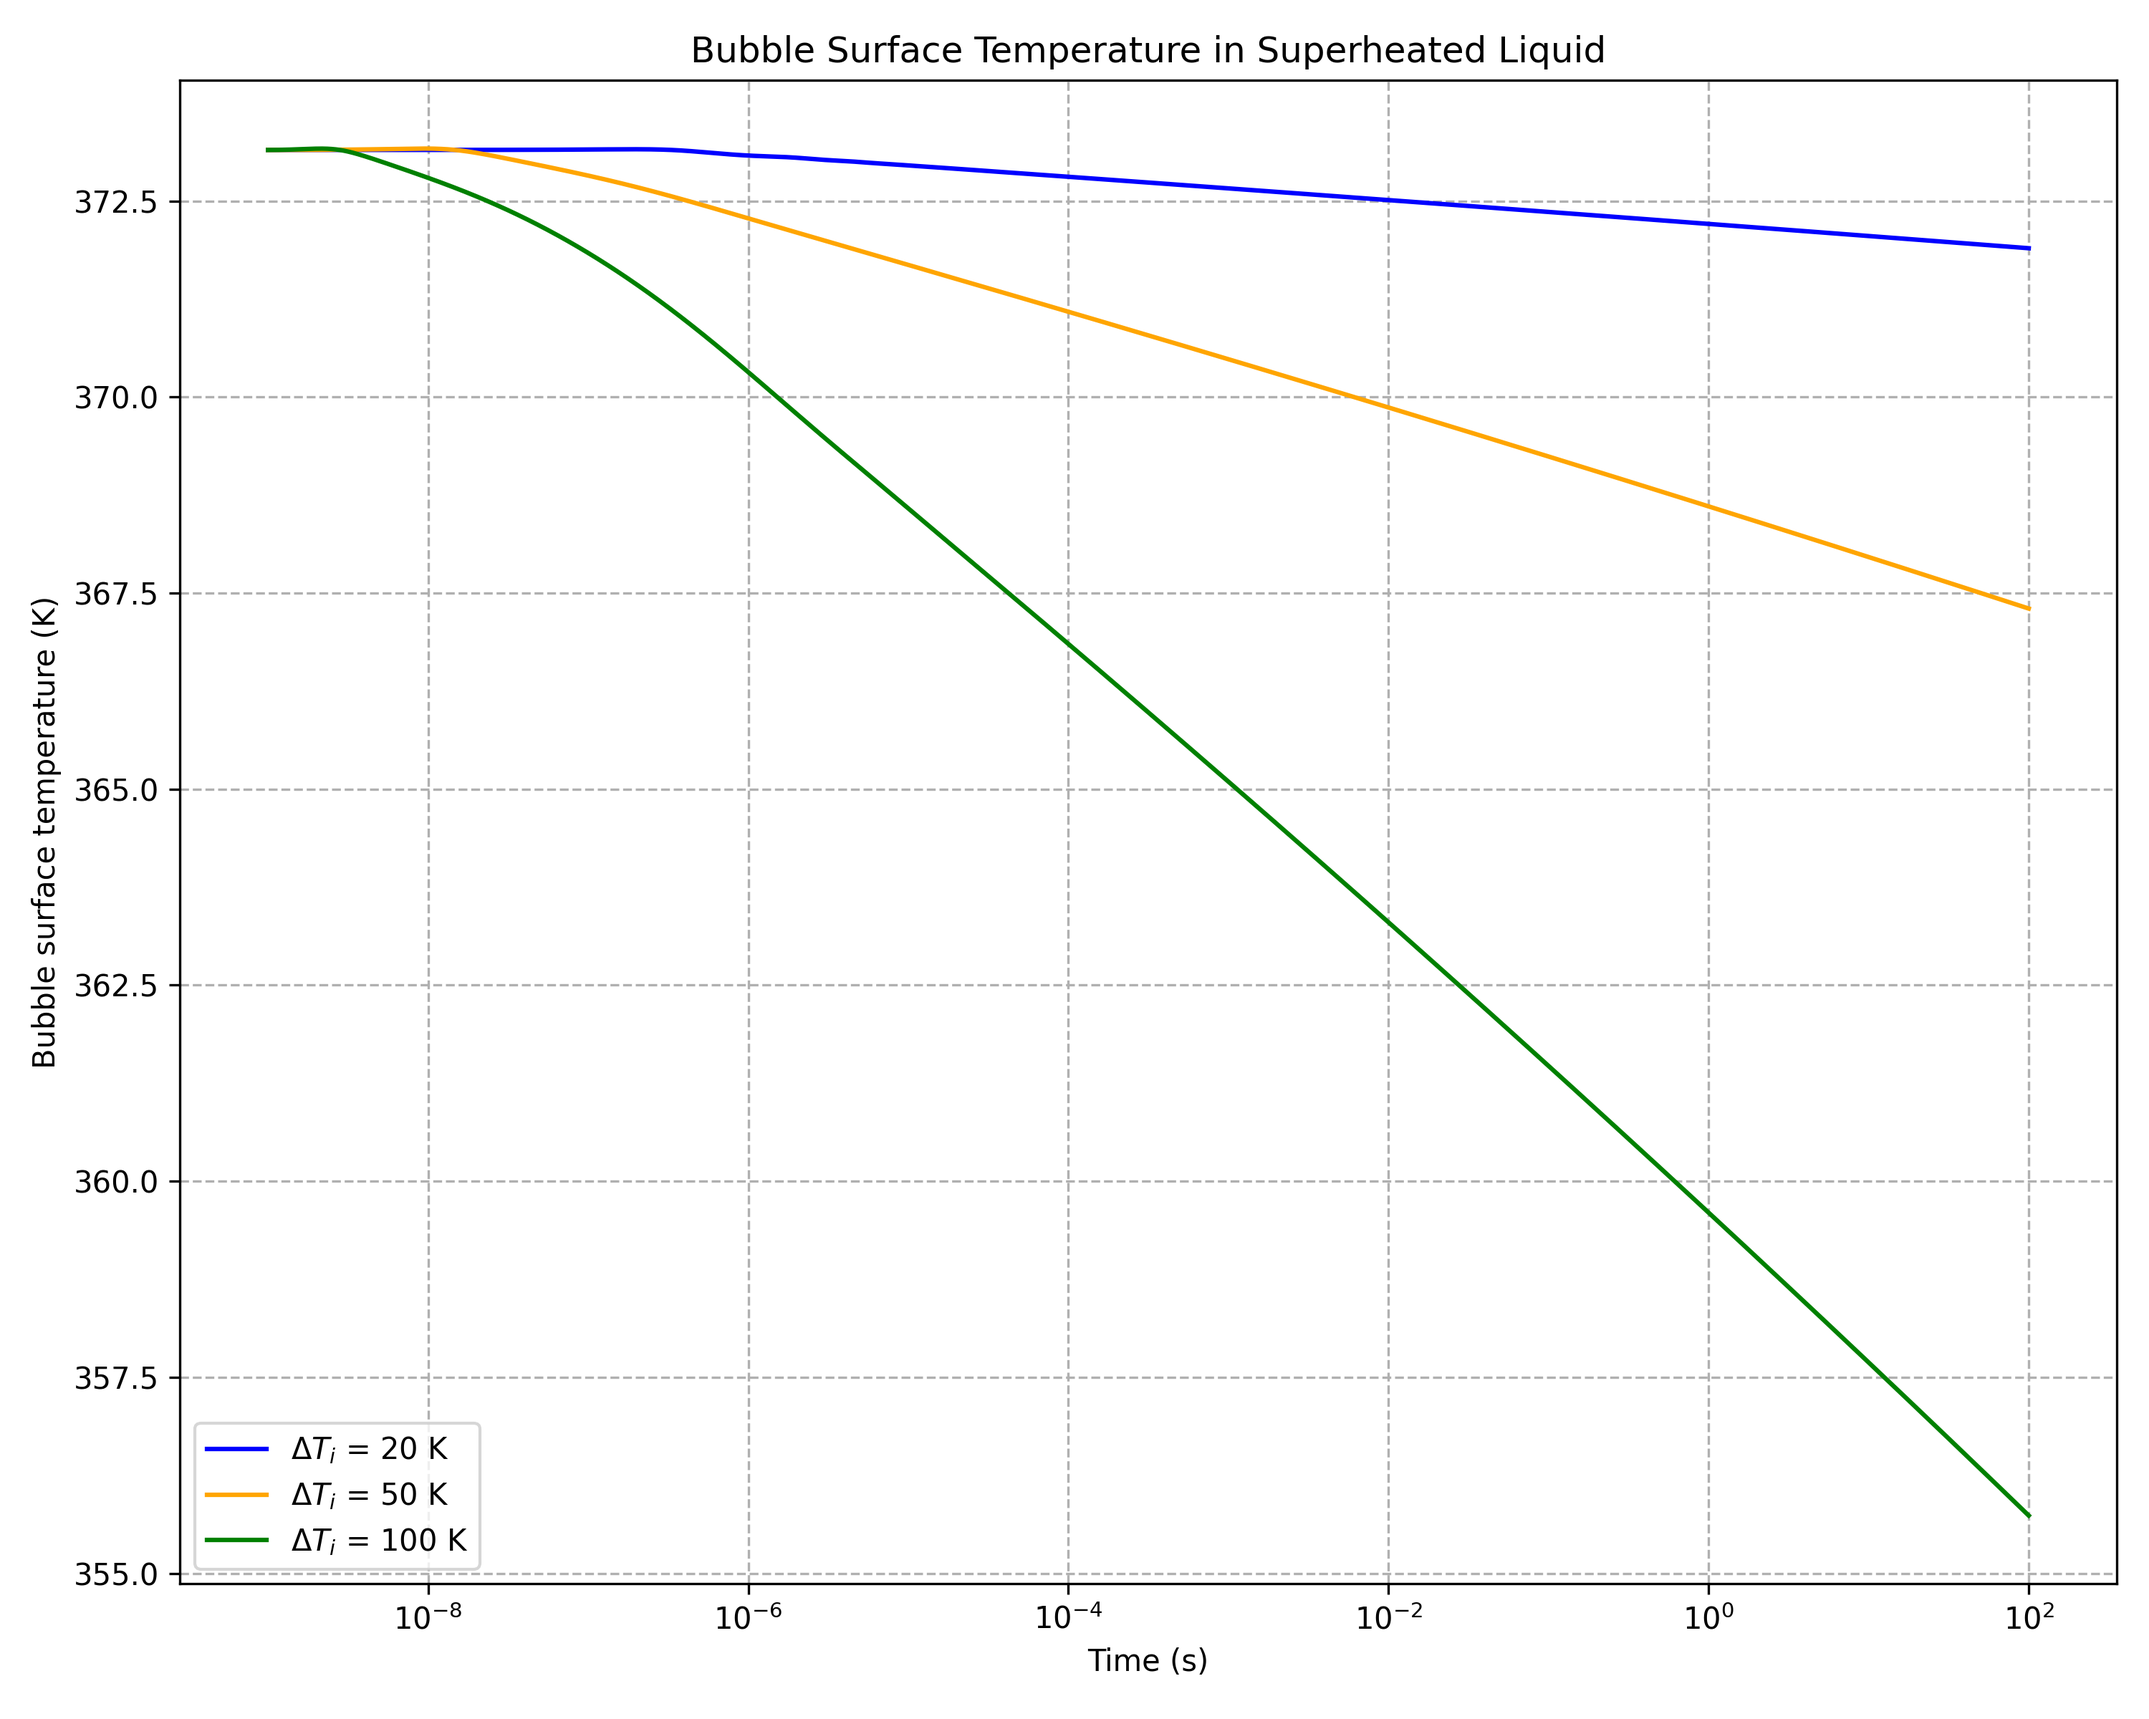
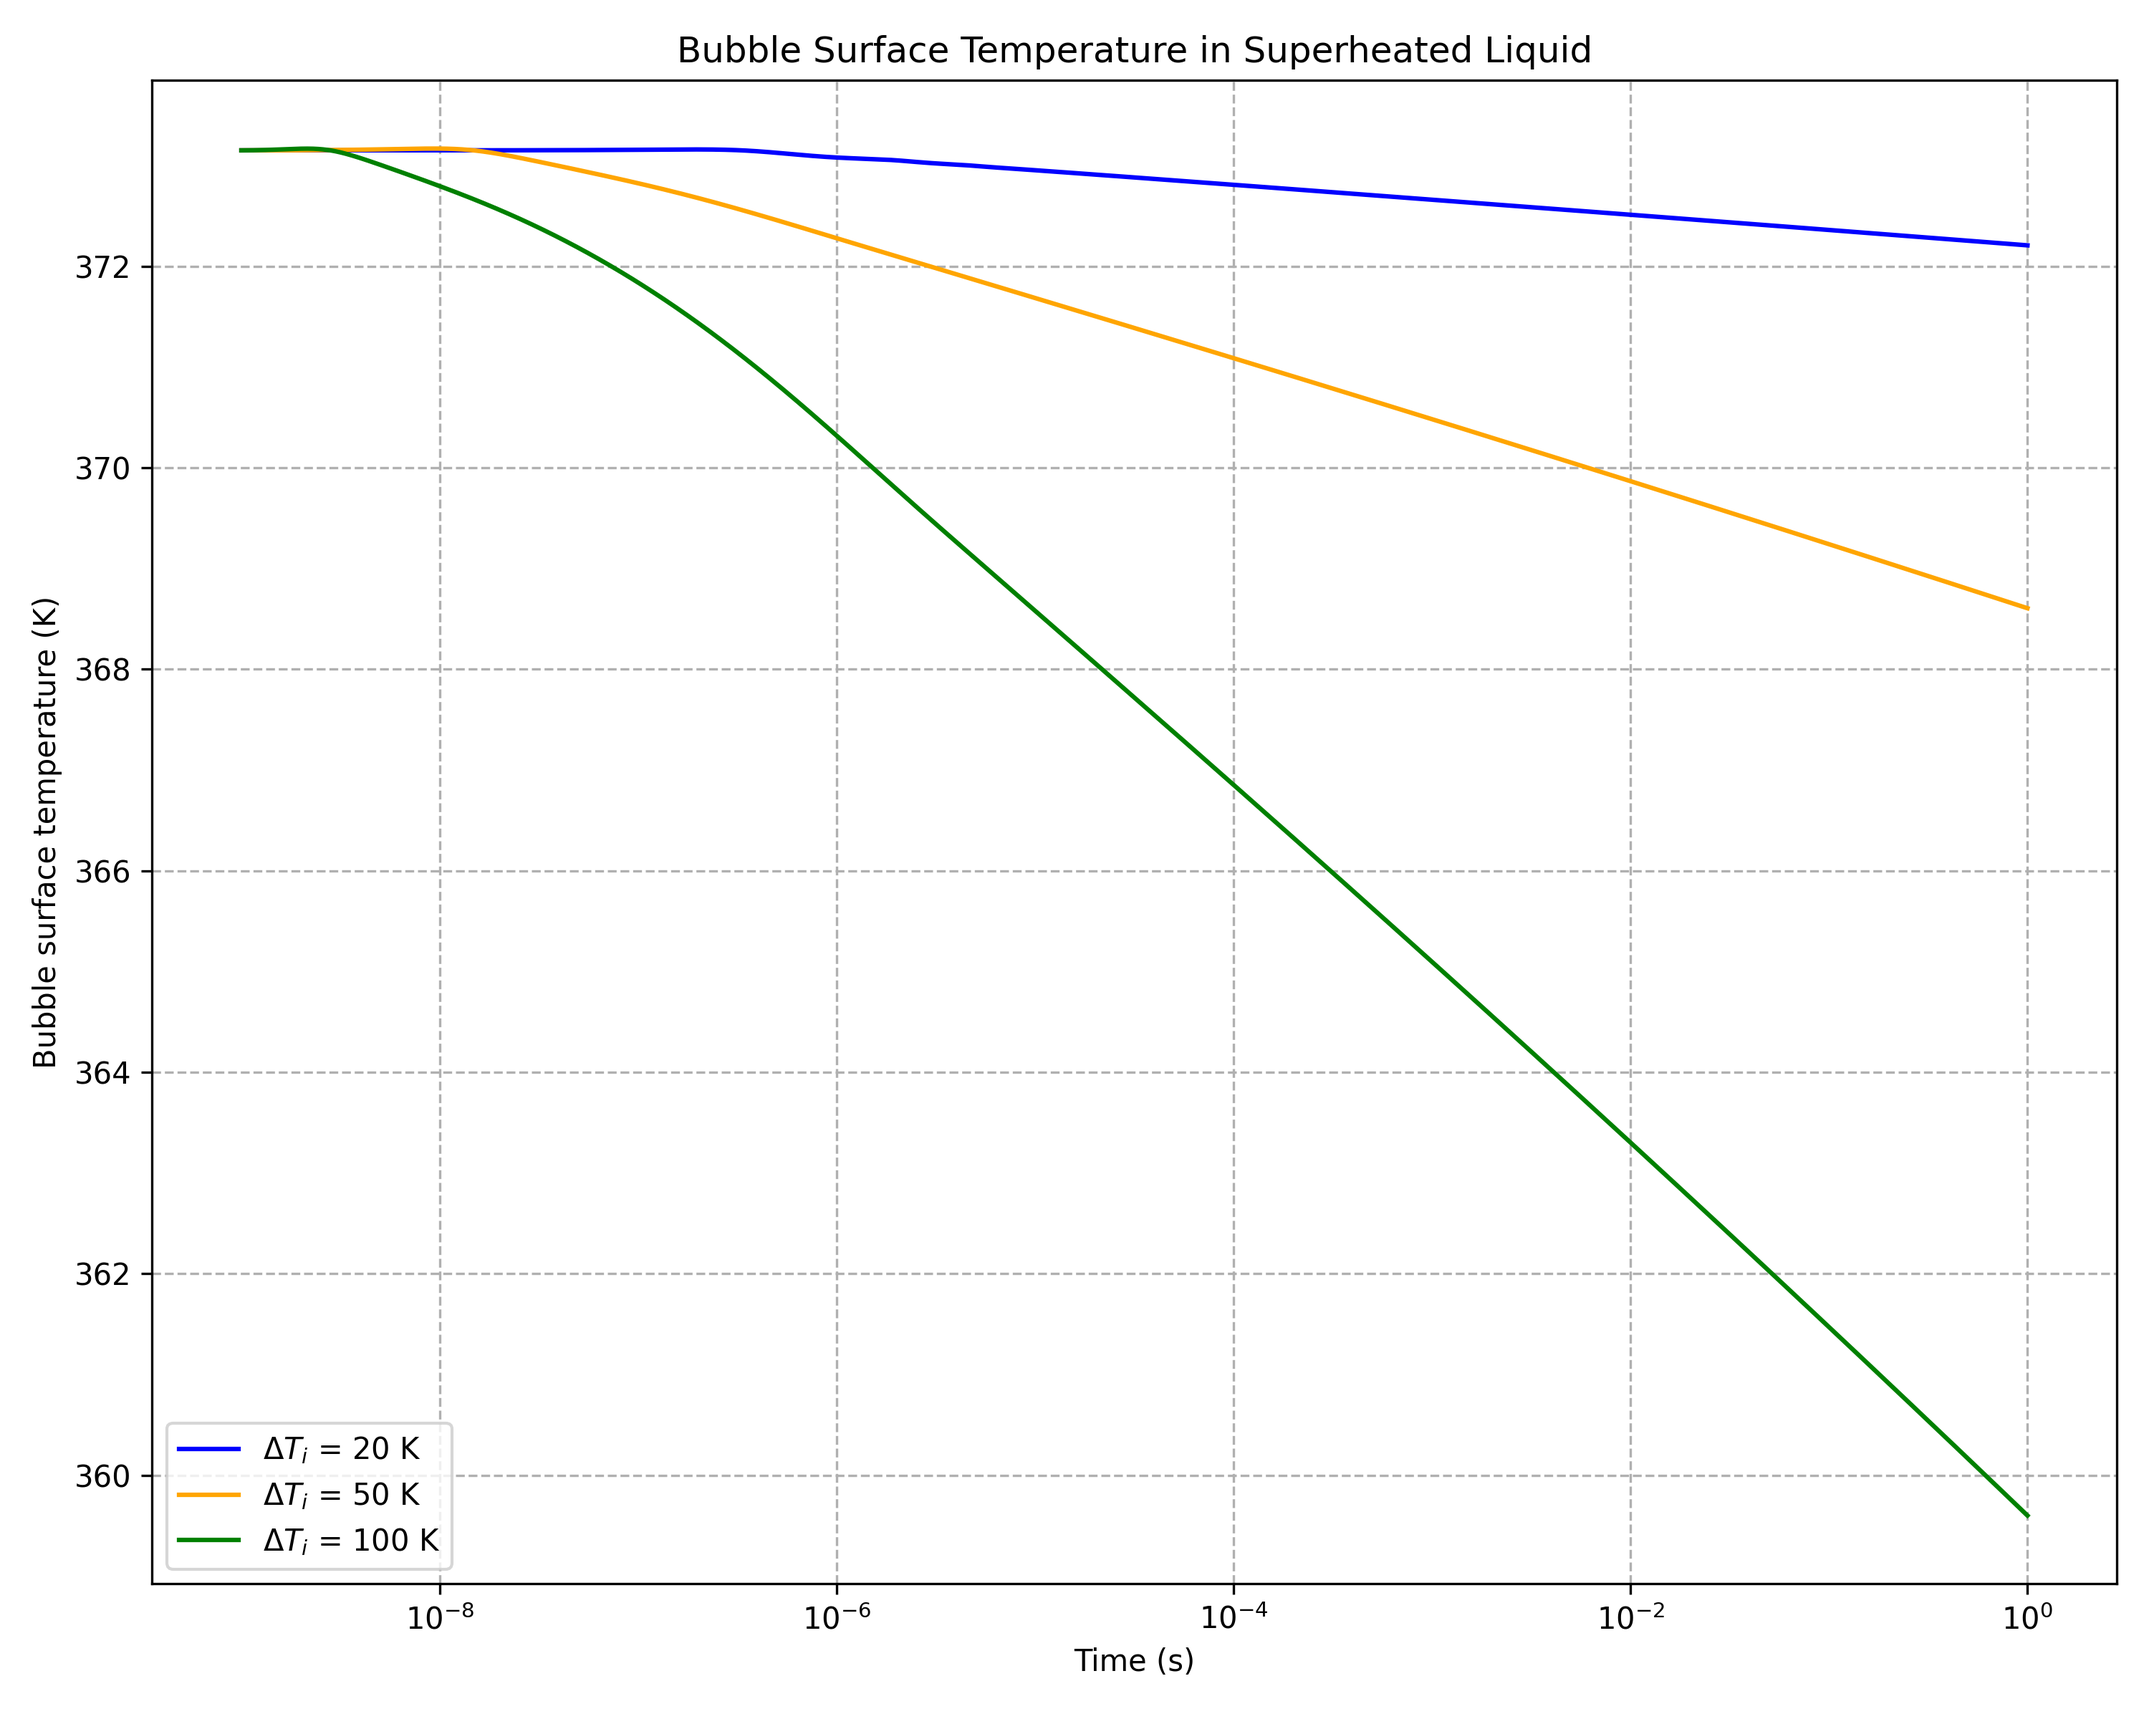
good version

diff --git a/final.py b/final.py
@@ -32,8 +32,8 @@ R0_dict = {
 rho_v0 = p_inf / (R_gas * T_sat)  # assume initial pressure ~ ambient pressure
 
 # Time span
-t_span = (1e-9, 1000)
-points = 3000
+t_span = (1e-9, 1)
+points = 5000
 t_eval = np.logspace(np.log10(t_span[0]), np.log10(t_span[1]), points)
 
 # Different initial superheating values (K)
